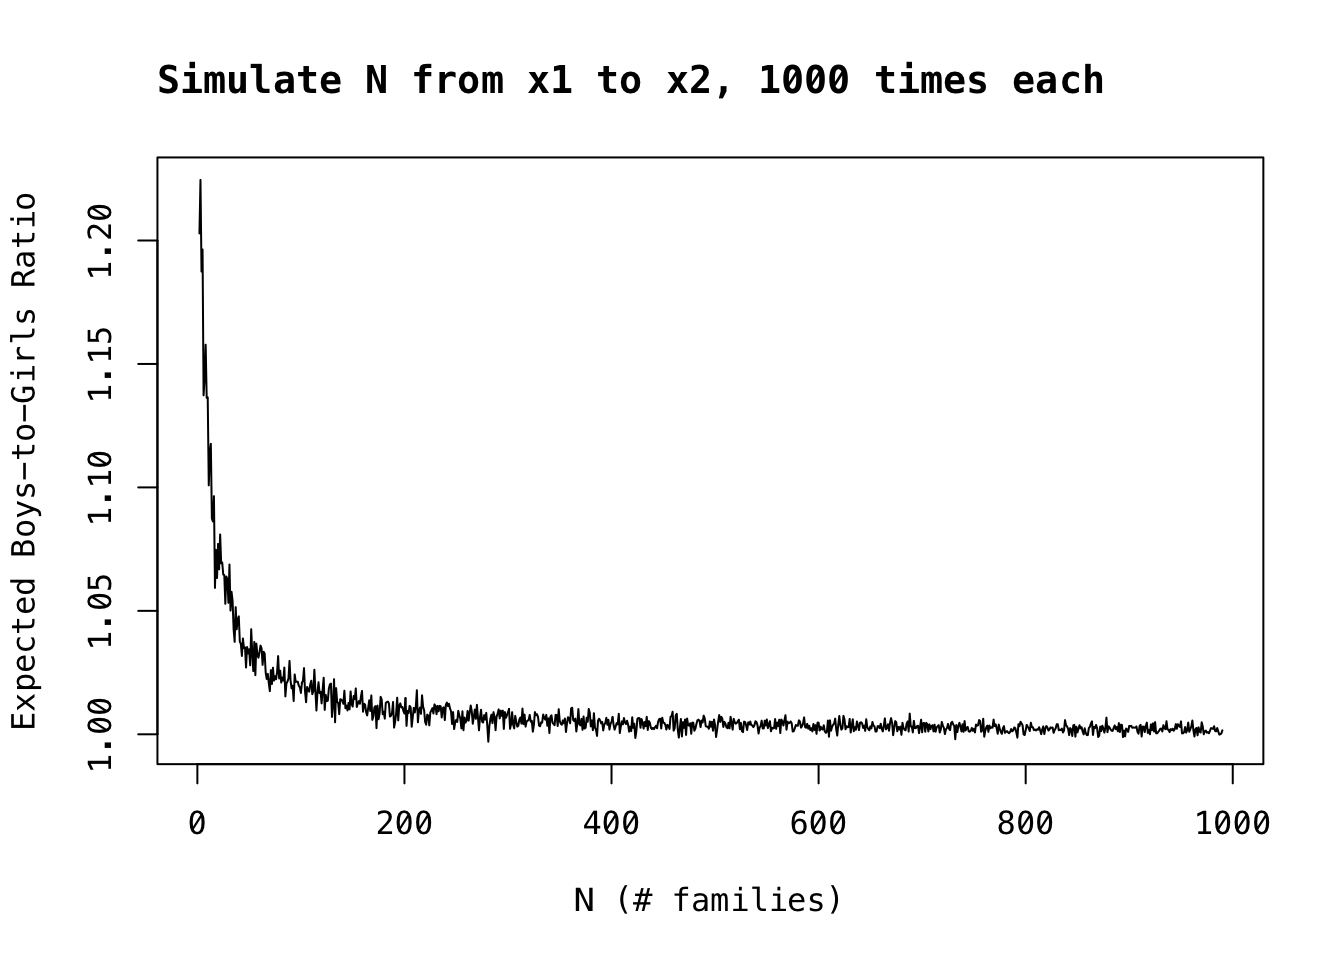
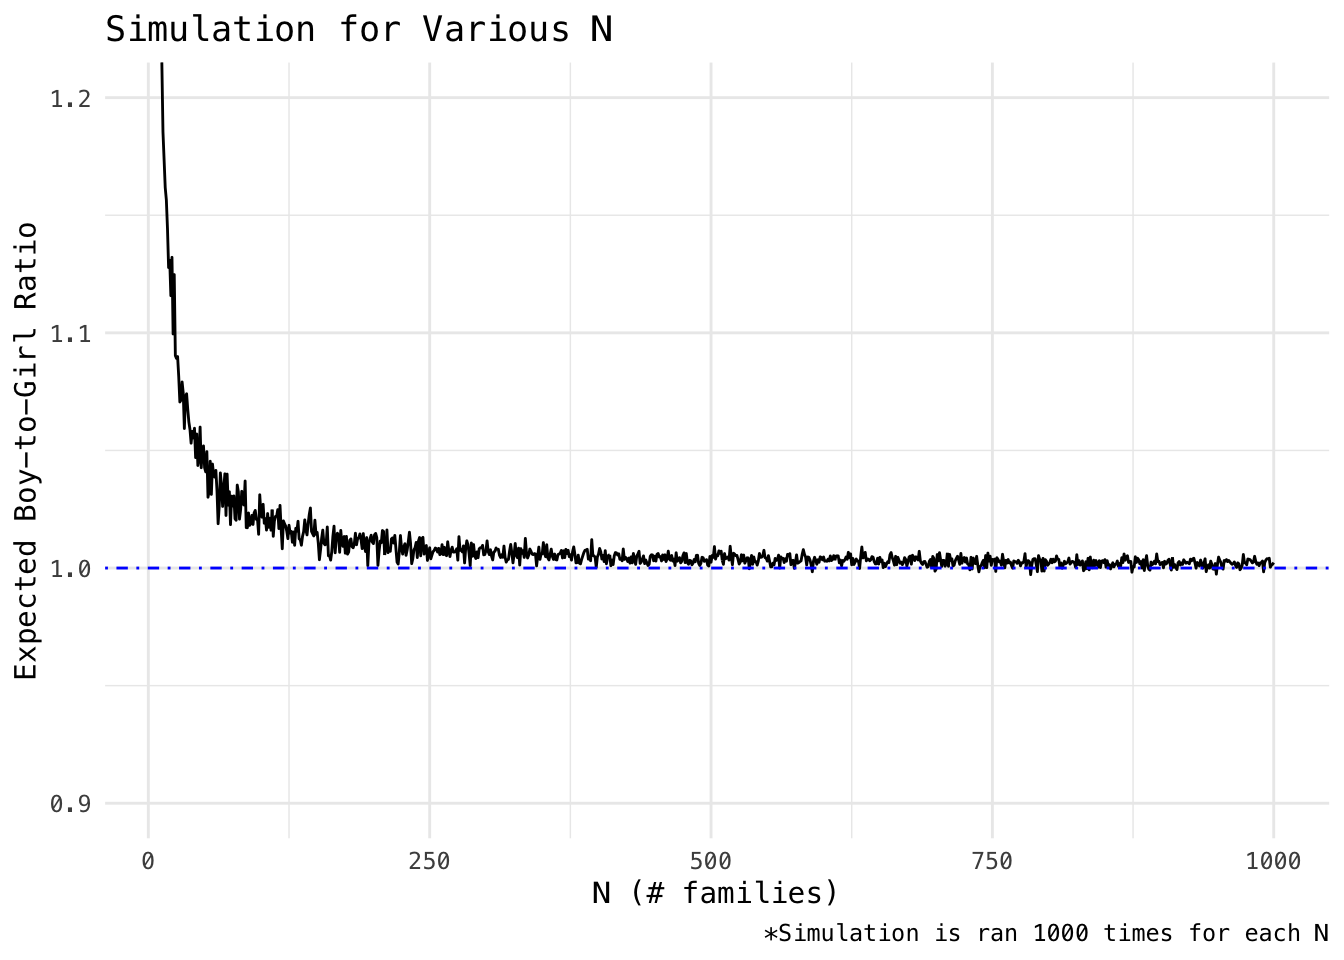
Update post content

diff --git a/content/post/2020-02-29-in-a-village-where-people-only-want-boys.html b/content/post/2020-02-29-in-a-village-where-people-only-want-boys.html
@@ -6,32 +6,25 @@ slug: in-a-village-where-people-only-want-boys
 categories: []
 tags: 
     - monte-carlo
+    - functional-programming
+    - dynamic-programming
 publishdate: '2020-02-29'
 lastmod: '2020-02-29'
 editor_options: 
   chunk_output_type: console
 ---
 
-<script src="/rmarkdown-libs/htmlwidgets/htmlwidgets.js"></script>
-<script src="/rmarkdown-libs/d3/d3.min.js"></script>
-<script src="/rmarkdown-libs/dagre/dagre-d3.min.js"></script>
-<link href="/rmarkdown-libs/mermaid/dist/mermaid.css" rel="stylesheet" />
-<script src="/rmarkdown-libs/mermaid/dist/mermaid.js"></script>
-<link href="/rmarkdown-libs/DiagrammeR-styles/styles.css" rel="stylesheet" />
-<script src="/rmarkdown-libs/chromatography/chromatography.js"></script>
-<script src="/rmarkdown-libs/DiagrammeR-binding/DiagrammeR.js"></script>
 
 
 <p>The origin of this question is an interview question from Google.</p>
 <blockquote>
-<p>In a village in which people only want boys every family continues to have children until they have a boy. If they have a girl, they have another child. If they have a boy, they stop. What is the expected boys to girls ratio in the village?</p>
+<p>In a village in which people only want boys every family continues to have children until they have a boy. If they have a girl, they have another child. If they have a boy, they stop. What is the expected boy to girl ratio in the village?</p>
 </blockquote>
 <p>Though this can be solved mathematically (of course it can), the question is (IMO) easier to solve by thinking in a tree/branches structure.</p>
 <p>If we assume the village has N families, and the probability of having a boy or girl is 50/50, then</p>
-<div id="htmlwidget-1" style="width:672px;height:480px;" class="DiagrammeR html-widget"></div>
-<script type="application/json" data-for="htmlwidget-1">{"x":{"diagram":"\n    graph TB\n        N --have boys, stop--> L21[N/2]\n        N --have girls, continue--> L22[N/2]\n        L22 --boys--> L221[N/4]\n        L22 --girls--> L222[N/4]\n        L222 --boys--> L2221[N/8]\n        L222 --girls--> L2222[N/8]\n        L2222 --> L222221[N/16]\n        L2222 --> L222222[N/16]\n        L222222 --- e1[...]\n"},"evals":[],"jsHooks":[]}</script>
-<p>Here we see the obvious, as the depth of tree extends, the boy-to-girl disparity will ultimately become insignificant. The ratio will be very close to 50/50.</p>
-<p>For practice and validation sake, lets do a simulation.</p>
+<p><img src="/etc/village/diagramme.png" /></p>
+<p>Here we see the obvious, as the depth of tree extends, the boy-to-girl disparity will ultimately become insignificant. Hence, the ratio will be very close to 50/50.</p>
+<p>However, the question itself is not the main interest of this post. It turns out to be quite a nice practice for simulation coding. The following attaches the source code to the simulation as it validates the answer given above. I utilize both <strong>functional (higher order function)</strong> and <strong>dynamic programming</strong> here.</p>
 <pre class="r"><code>library(magrittr)
 
 simulate_once &lt;- function(N, verbose=FALSE) {
@@ -48,7 +41,7 @@ simulate_once &lt;- function(N, verbose=FALSE) {
         # browser()
         if(msgON) message(x)
         
-        # terminal condition
+        # terminal condition: all 1 (boys)
         if (all(x)) {
             boys  &lt;&lt;- boys + sum(x)
             if (msgON) print_vars()
@@ -56,11 +49,11 @@ simulate_once &lt;- function(N, verbose=FALSE) {
         }
         
         # assign to parent env so that we can keep track
-        boys  &lt;&lt;- boys + sum(x)
+        boys  &lt;&lt;-  boys + sum(x)
         girls &lt;&lt;- girls + sum(!x)
         
         if (msgON) print_vars()
-        return(tryonemore(rbinom(sum(!x), 1, 0.5), msgON = msgON) + sum(x))
+        return(tryonemore(rbinom(sum(!x), 1, 0.5), msgON = msgON))
     }
     # init call
     tryonemore(rbinom(N, 1, 0.5), msgON=verbose)
@@ -84,17 +77,20 @@ simulate_once(10, verbose = TRUE)
 <pre class="r"><code>library(purrr)
 library(ggplot2)
 
-res &lt;- map_dbl(11:1000, ~ {
+N.range = 11:1000
+
+res &lt;- map_dbl(N.range, ~ {
     mean(replicate(1000, simulate_once(.x)))
 })
 
-par(family = &quot;Menlo&quot;)
-plot(res,
-     type  = &quot;l&quot;,
-     xlab  = &quot;N (# families)&quot;,
-     ylab  = &quot;Expected Boys-to-Girls Ratio&quot;,)
-title(main = &quot;Simulate N from x1 to x2, 1000 times each&quot;, adj = 0)</code></pre>
+data.frame(ind = N.range, ratio = res) %&gt;% 
+    ggplot(aes(ind, ratio)) +
+    geom_line() + 
+    geom_hline(yintercept = 1, lty = 4, col = &quot;blue&quot;) +
+    scale_y_continuous(limits = c(0.9, 1.2)) +
+    theme_minimal(base_family = &quot;Menlo&quot;) + 
+    labs(x       = &quot;N (# families)&quot;,
+         y       = &quot;Expected Boy-to-Girl Ratio&quot;,
+         caption = &quot;*Simulation is ran 1000 times for each N&quot;,
+         title   = &quot;Simulation for Various N&quot;)</code></pre>
 <p><img src="/post/2020-02-29-in-a-village-where-people-only-want-boys_files/figure-html/unnamed-chunk-3-1.png" width="672" /></p>
-<pre class="r"><code>dev.off()</code></pre>
-<pre><code>## null device 
-##           1</code></pre>
